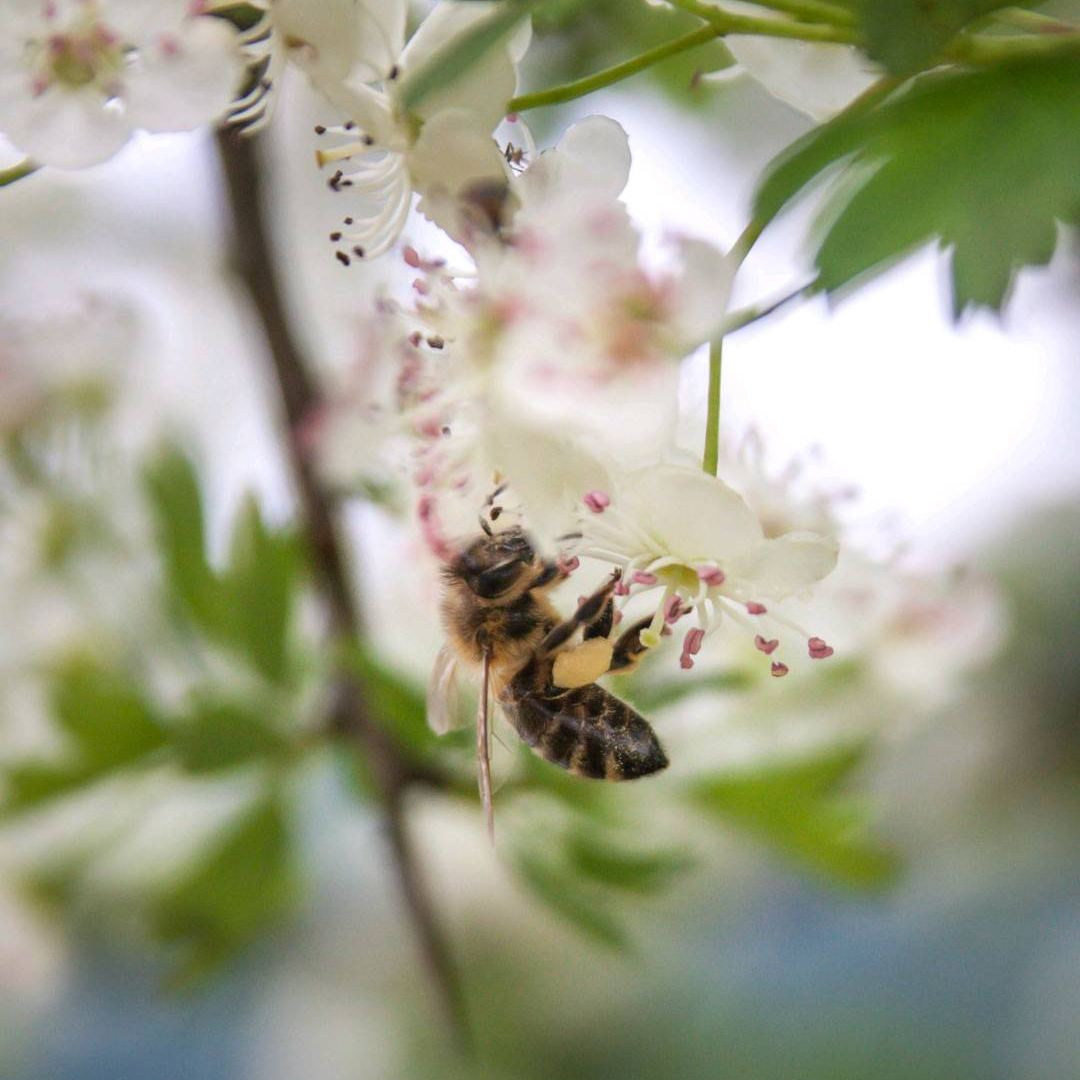
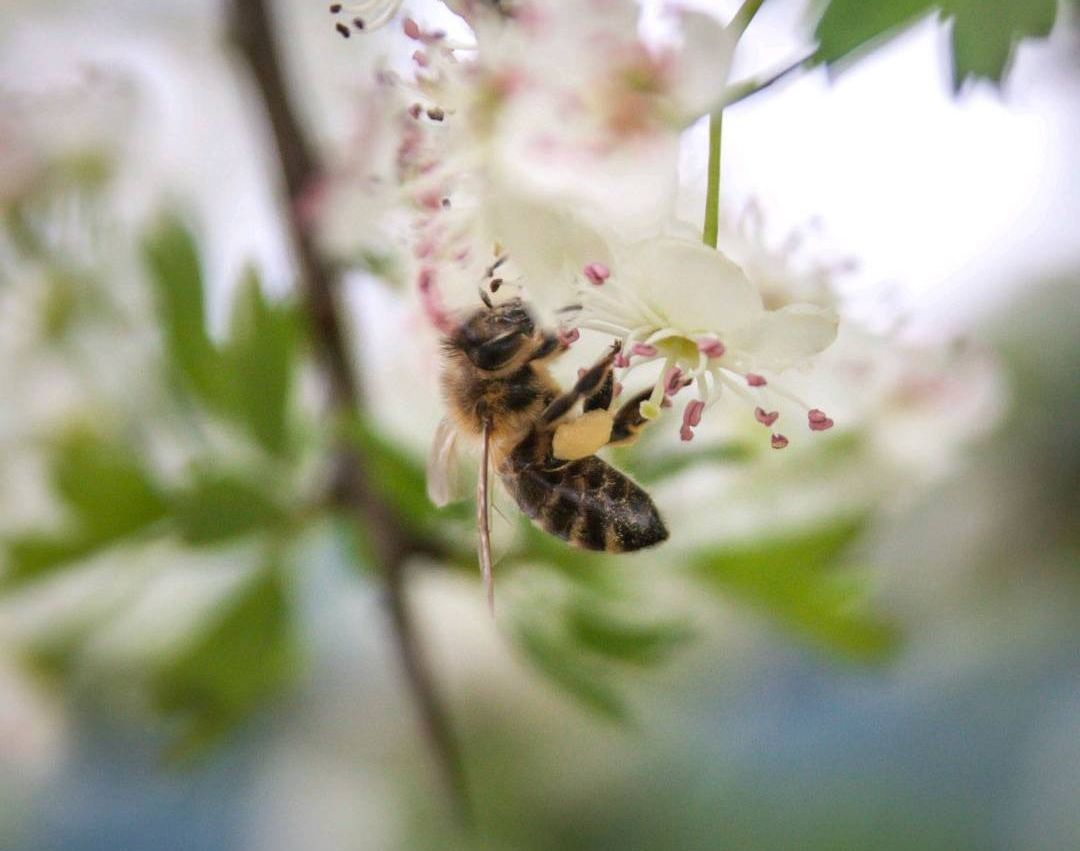
update pictures and add ausverkauft label

diff --git a/layouts/partials/section1.html b/layouts/partials/section1.html
@@ -32,6 +32,7 @@
             </div>
             <div class="card-text">
                 <p>{{ .text }}</p>
+                <p style="color:orange;">{{ .message }}</p>
             </div>
           </div>
         </div>
